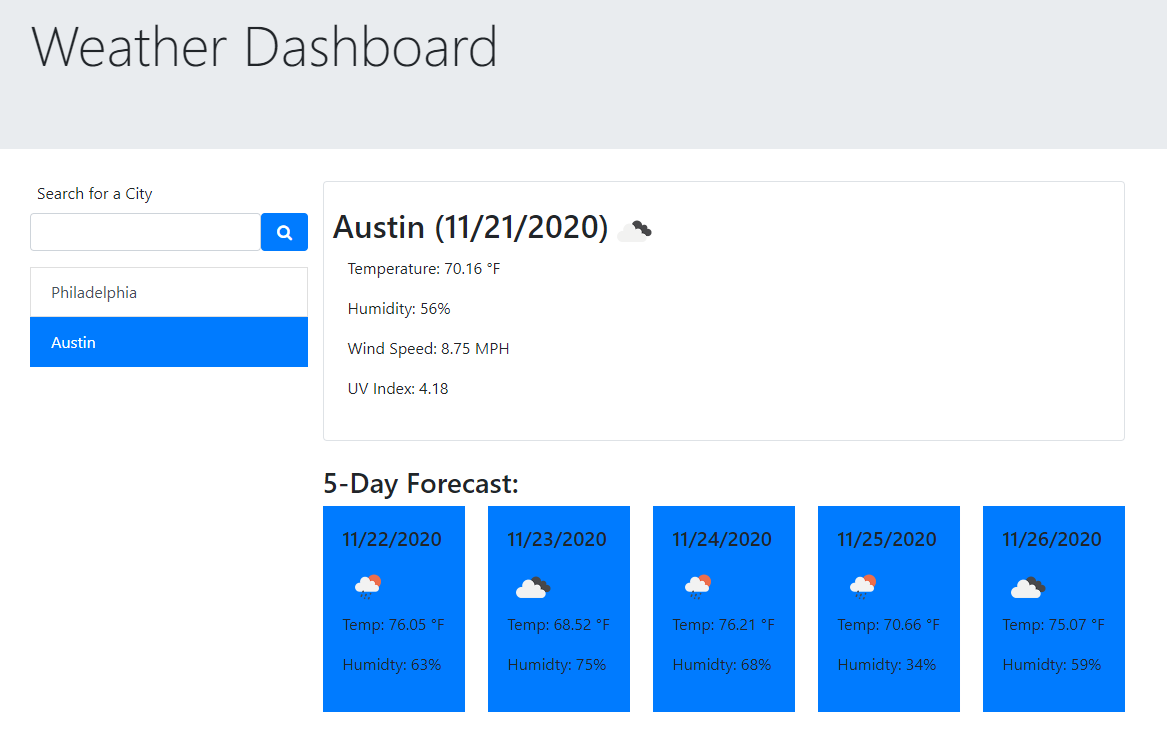
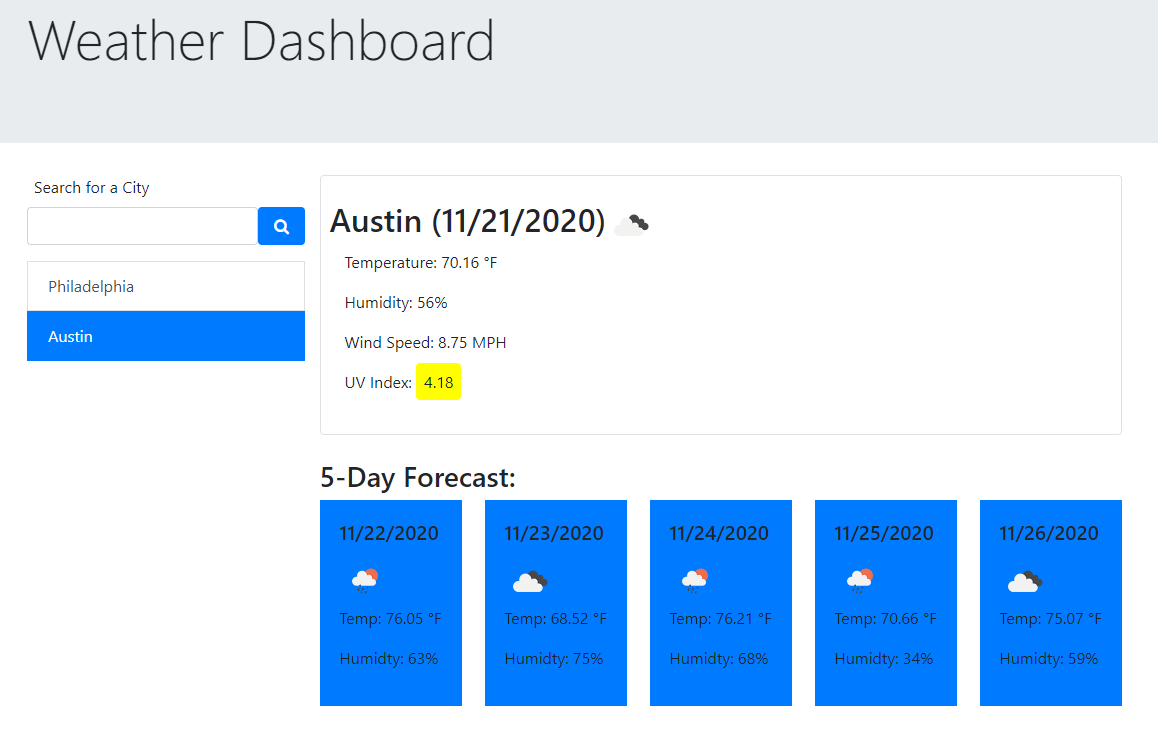
added css variables for uv span background color, finalized readme

diff --git a/Assets/JS/script.js b/Assets/JS/script.js
@@ -8,7 +8,6 @@ var getCityList = function() {
     } else {
         cityList = [];
     }
-    console.log(cityList);
 }
 
 //get active city
@@ -18,7 +17,6 @@ var getActiveCity = function () {
     } else {
         activeCity = "";
     }
-    console.log(activeCity);
 }
 
 //build search history buttons
@@ -67,9 +65,18 @@ var searchActiveCity = function(city) {
         $.ajax({
             url: `https://api.openweathermap.org/data/2.5/onecall?lat=${lat}&lon=${lon}&exclude=hourly,current,minutely,alerts&appid=${apiKey}&units=imperial`
         }).then(function(response){
-            console.log(response);
-            console.log(response.daily[0].uvi);
             uvIndex = response.daily[0].uvi;
+            if (parseInt(uvIndex) < 3) {
+                var uvClass = "greenUV"
+            } else if (parseInt(uvIndex) >= 3 && parseInt(uvIndex) < 6) {
+                var uvClass = "yellowUV"
+            } else if (parseInt(uvIndex) >= 6 && parseInt(uvIndex) < 8) {
+                var uvClass = "orangeUV"
+            } else if (parseInt(uvIndex) >= 8 && parseInt(uvIndex) < 11) {
+                var uvClass = "redUV"
+            } else if (parseInt(uvIndex) >= 11) {
+                var uvClass = "purpleUV"
+            }
             asideGuts.empty();
             asideGuts.html(`
                 <div id="todayWeather" class="border rounded p-4">
@@ -80,7 +87,7 @@ var searchActiveCity = function(city) {
                     <p>Temperature: ${todayTemp} °F</p>
                     <p>Humidity: ${todayHum}%</p>
                     <p>Wind Speed: ${todayWind} MPH</p>
-                    <p>UV Index: <span id="uvSpan" class="uvClass">${uvIndex}</span></p>
+                    <p>UV Index: <span id="uvSpan" class="p-2 rounded ${uvClass}">${uvIndex}</span></p>
                 </div>
                 <div id="fiveDay" class="mt-4">
                     <h3>5-Day Forecast:</h3>
@@ -97,7 +104,6 @@ var searchActiveCity = function(city) {
                 var forecastTemp = response.daily[i].temp.max;
                 var forecastHum = response.daily[i].humidity;
                 var forecastIcon = response.daily[i].weather[0].icon;
-                console.log(forecastDate, forecastTemp, forecastHum, forecastIcon);
                 forecastCard.html(`
                 <div class="card-body">
                             <h5 class="card-title" id="dateDay1">${forecastDate}</h5>
@@ -112,10 +118,8 @@ var searchActiveCity = function(city) {
             localStorage.setItem("activeCity", JSON.stringify(city));
             if (!cityList.includes(city)) {
                 cityList.push(city);
-                console.log(JSON.stringify(cityList));
             }
             localStorage.setItem("cityList", JSON.stringify(cityList))
-            console.log(cityList);
             getCityList();
             getActiveCity();
             buildSearchHistoryButtons();
@@ -125,7 +129,6 @@ var searchActiveCity = function(city) {
     .catch(function() {
         if (activeCity.length === 0) {
             //render waiting stuff
-            console.log('activeCity.length === 0')
             asideGuts.html(`<h6>Search for a city to check out the weather</h6>`);
             $('#asideEl').append(asideGuts);
         } else {
@@ -154,15 +157,12 @@ $(document).ready(function() {
         event.preventDefault();
         var searchTerm = $('#cityInput').val().trim();
         if (searchTerm) {
-            console.log(searchTerm);
             searchActiveCity(searchTerm);
             $('#cityInput').val('');
         }
     });
 
     $("#buttonList").click(function(event) {
-        // alert(event.target.innerText);
-        
         searchActiveCity(event.target.innerText)
     });
 })

diff --git a/Assets/Style/style.css b/Assets/Style/style.css
@@ -5,3 +5,23 @@ img {
 .card-body {
     background-color:#007bff;
 }
+
+.greenUV {
+    background-color: limegreen;
+}
+
+.yellowUV {
+    background-color: yellow;
+}
+
+.orangeUV {
+    background-color: orange;
+}
+
+.redUV {
+    background-color: red;
+}
+
+.purpleUV {
+    background-color: violet;
+}

diff --git a/README.md b/README.md
@@ -1,1 +1,53 @@
-# weather-dashboard
+# Title: #06-Weather-Dashboard-Dan-Aument-UT-Homework
+
+## Table of Contents:
+* [Description](#Description)
+* [Screenshot](#Screenshot)
+* [Location of Deployed Project](#Location)
+* [Notes from Dan](#Notes)
+* [Credits](#Credits)
+* [License](#License)
+
+### <a name="Description">Description:</a>
+This project serves as a homework assignment submission for the sixth week of UT's web dev coding bootcamp.  It contains a codebase and a deployed webpage for a weather dashboard web app.
+
+### <a name="Screenshot">Screenshot: </a>
+<img src="./Assets/Images/weatherdashboardscreenshot.png" width="250x" />
+
+### <a name="Location">Location of Deployed Project:</a>
+https://danaument.github.io/weather-dashboard/
+
+### <a name="Notes">Notes from Dan:  </a>
+
+I mostly enjoyed completing this assignment.  I learned a lot about AJAX and jQuery that we did not cover in our class sessions, such as how to use .then() and .catch() to work within the asynchronous nature of AJAX.  Most of the issues I had with this project were related to handling edge cases.  
+
+I have a number of additional features that I would like to add at a later point, including buttons to remove individual cities from the search history, more sophisticated CSS styling, and an autocomplete feature for the search query using the Google places API.  
+
+### <a name="Credits">Credits: </a>
+This project was completed by Dan Aument using code and assets provided by The Coding Boot Camp at UT Austin in partnership with Trilogy Education Services. I adapted some code from https://flaviocopes.com/how-to-uppercase-first-letter-javascript/ to ~text-transform: capitalize~ my search input string in JavaScript.
+
+### <a name="License">License: </a>
+
+Distributed under the MIT License
+
+MIT License
+
+Copyright (c) 2020 Daniel Aument
+
+Permission is hereby granted, free of charge, to any person obtaining a copy
+of this software and associated documentation files (the "Software"), to deal
+in the Software without restriction, including without limitation the rights
+to use, copy, modify, merge, publish, distribute, sublicense, and/or sell
+copies of the Software, and to permit persons to whom the Software is
+furnished to do so, subject to the following conditions:
+
+The above copyright notice and this permission notice shall be included in all
+copies or substantial portions of the Software.
+
+THE SOFTWARE IS PROVIDED "AS IS", WITHOUT WARRANTY OF ANY KIND, EXPRESS OR
+IMPLIED, INCLUDING BUT NOT LIMITED TO THE WARRANTIES OF MERCHANTABILITY,
+FITNESS FOR A PARTICULAR PURPOSE AND NONINFRINGEMENT. IN NO EVENT SHALL THE
+AUTHORS OR COPYRIGHT HOLDERS BE LIABLE FOR ANY CLAIM, DAMAGES OR OTHER
+LIABILITY, WHETHER IN AN ACTION OF CONTRACT, TORT OR OTHERWISE, ARISING FROM,
+OUT OF OR IN CONNECTION WITH THE SOFTWARE OR THE USE OR OTHER DEALINGS IN THE
+SOFTWARE.
